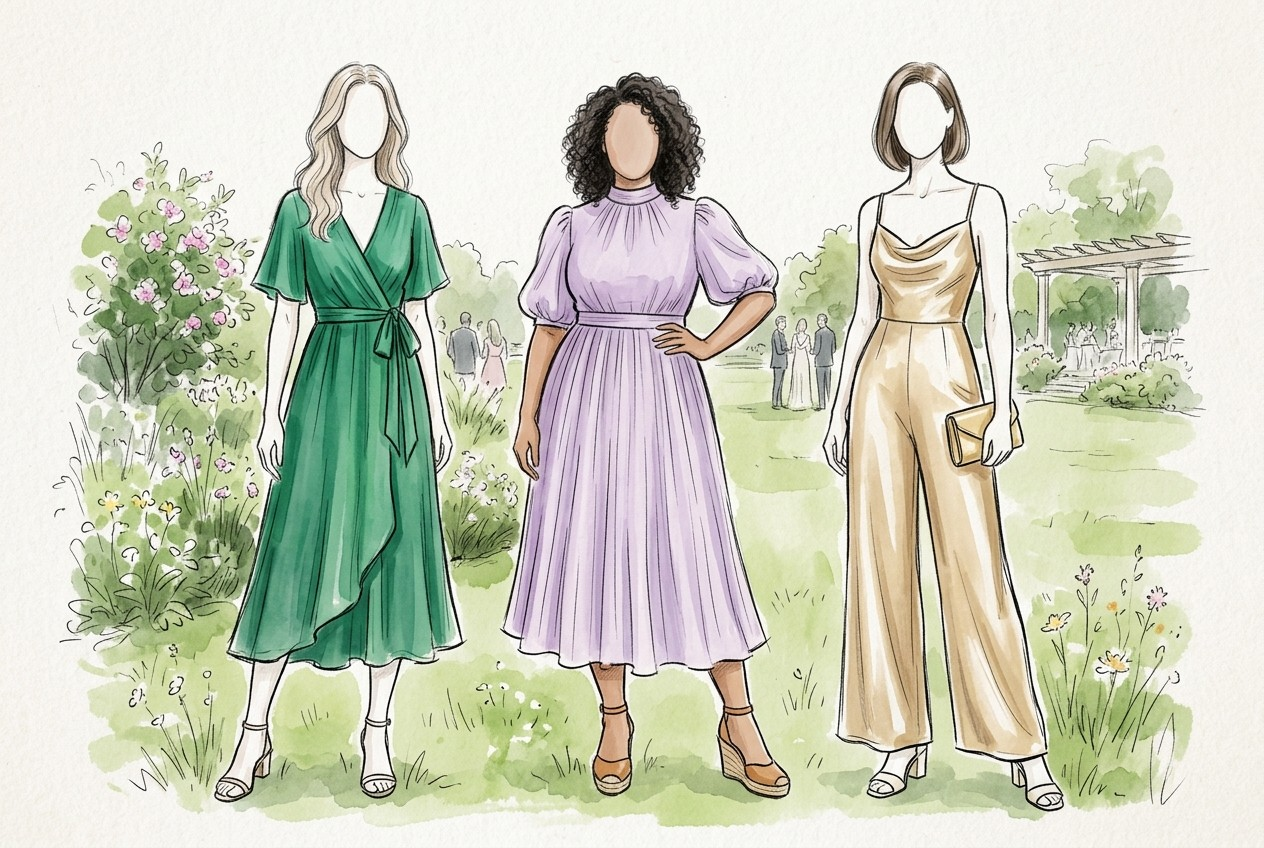
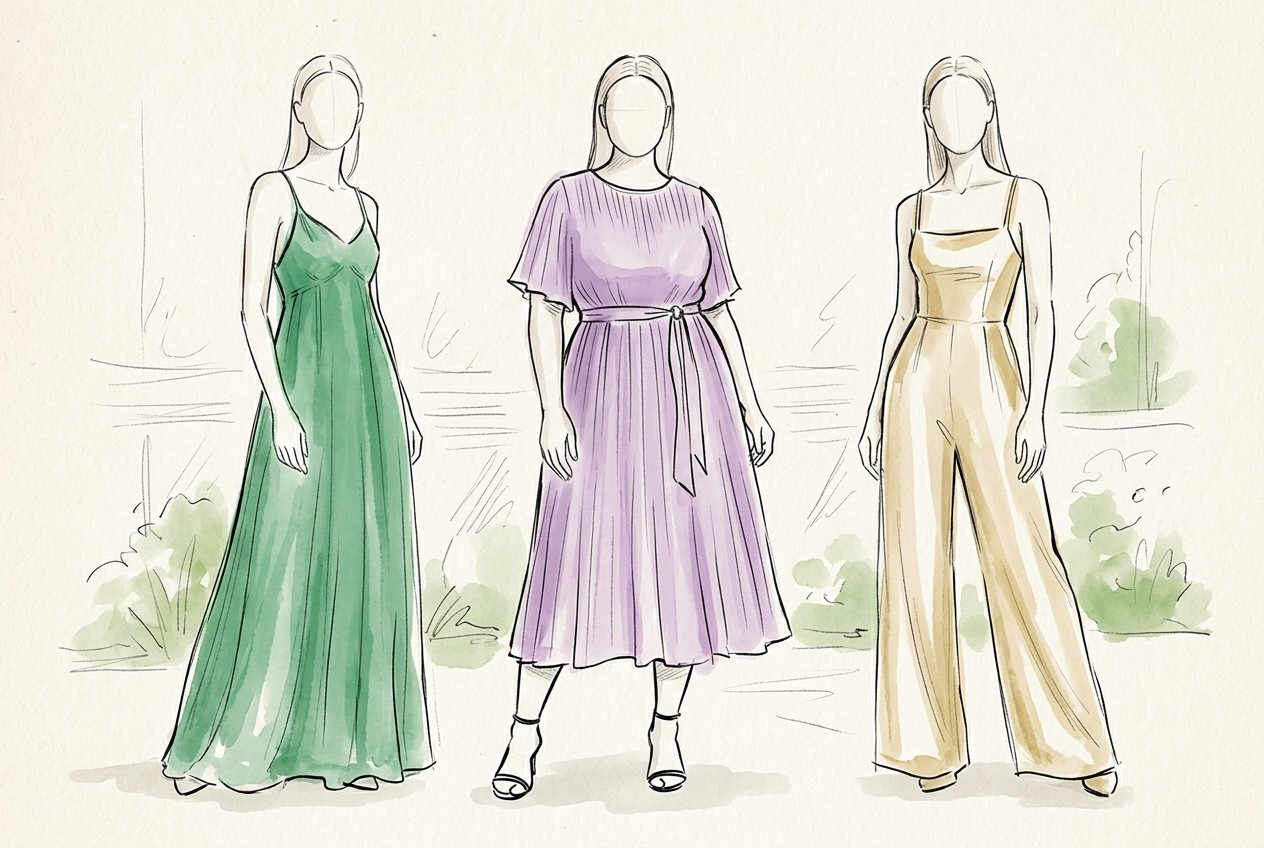
feat: atualizar sketch feminino com vestido longo verde e midi roxo + remover cota parintins da lista de presentes

diff --git a/index.html b/index.html
@@ -677,7 +677,7 @@
       <!-- Barra de Controle e Ordenação dos Presentes -->
       <div class="gifts-toolbar">
         <div class="gifts-toolbar-info">
-          <span class="gifts-count-tag">30 Opções de Presentes + Cota Livre</span>
+          <span class="gifts-count-tag">29 Opções de Presentes + Cota Livre</span>
         </div>
         <div class="gifts-sort-wrapper">
           <label for="giftSortSelect" class="gifts-sort-label">
@@ -799,8 +799,8 @@
   </footer>
 
   <!-- Scripts JS com Versionamento para Limpeza Imediata de Cache -->
-  <script src="js/app.js?v=3.0"></script>
-  <script src="js/gifts.js?v=3.0"></script>
-  <script src="js/rsvp-mural.js?v=3.0"></script>
+  <script src="js/app.js?v=3.1"></script>
+  <script src="js/gifts.js?v=3.1"></script>
+  <script src="js/rsvp-mural.js?v=3.1"></script>
 </body>
 </html>

diff --git a/js/gifts.js b/js/gifts.js
@@ -213,13 +213,6 @@ const SUGGESTED_GIFTS_ORDER = [
     paymentLink: 'https://link.infinitepay.io/alexandre-castilho-2j8/VC1D-dt8kx0d0Lo-2450,00'
   },
   {
-    id: 'presente-14',
-    title: 'Cota Parintins 2027 para os noivos',
-    price: 3100.21,
-    image: 'assets/gifts/gift-14.jpg',
-    paymentLink: 'https://link.infinitepay.io/alexandre-castilho-2j8/VC1D-aBm6pGLkBl-2970,00'
-  },
-  {
     id: 'presente-25',
     title: 'Implante capilar para o noivo',
     price: 3121.09,
